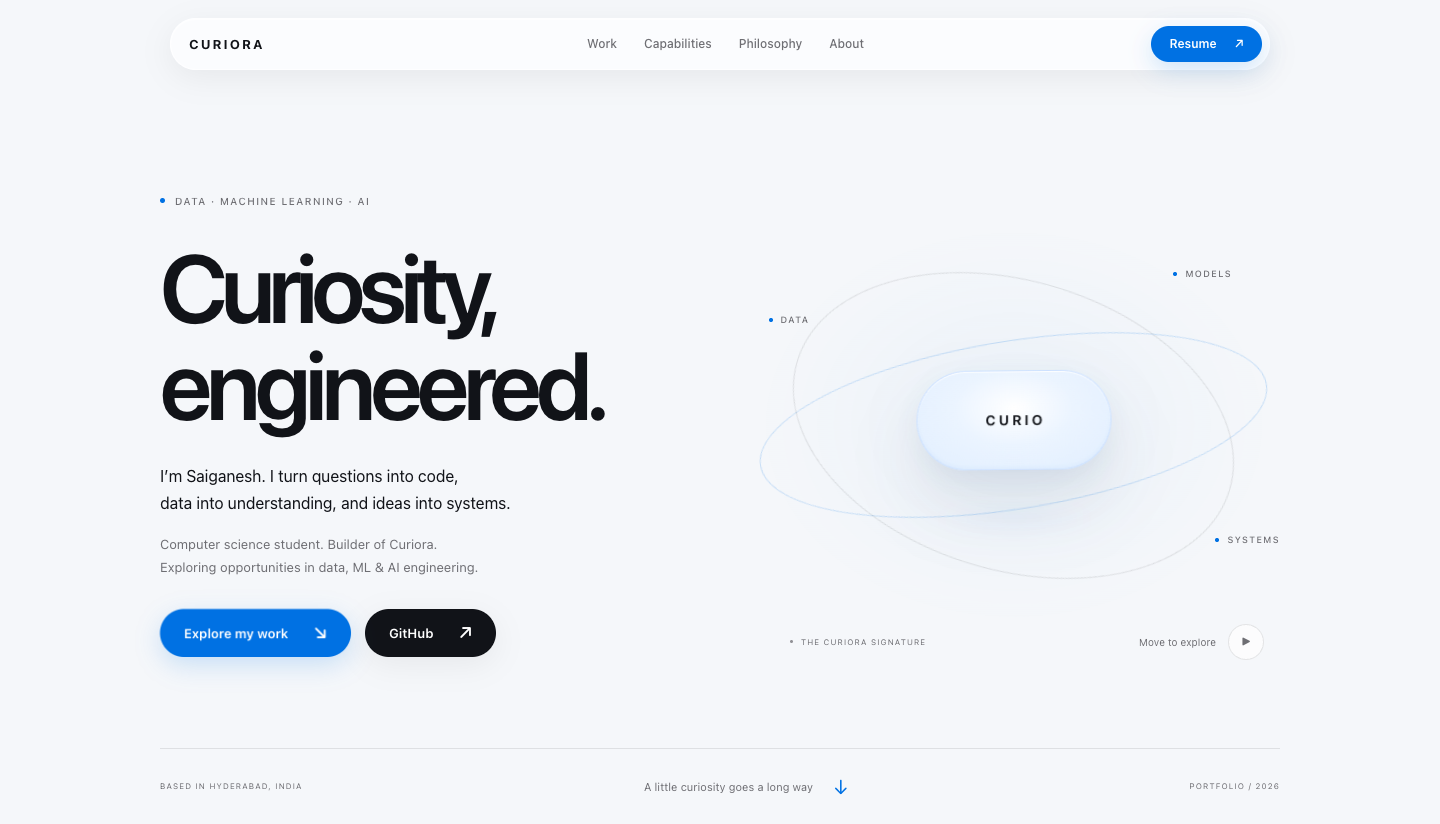
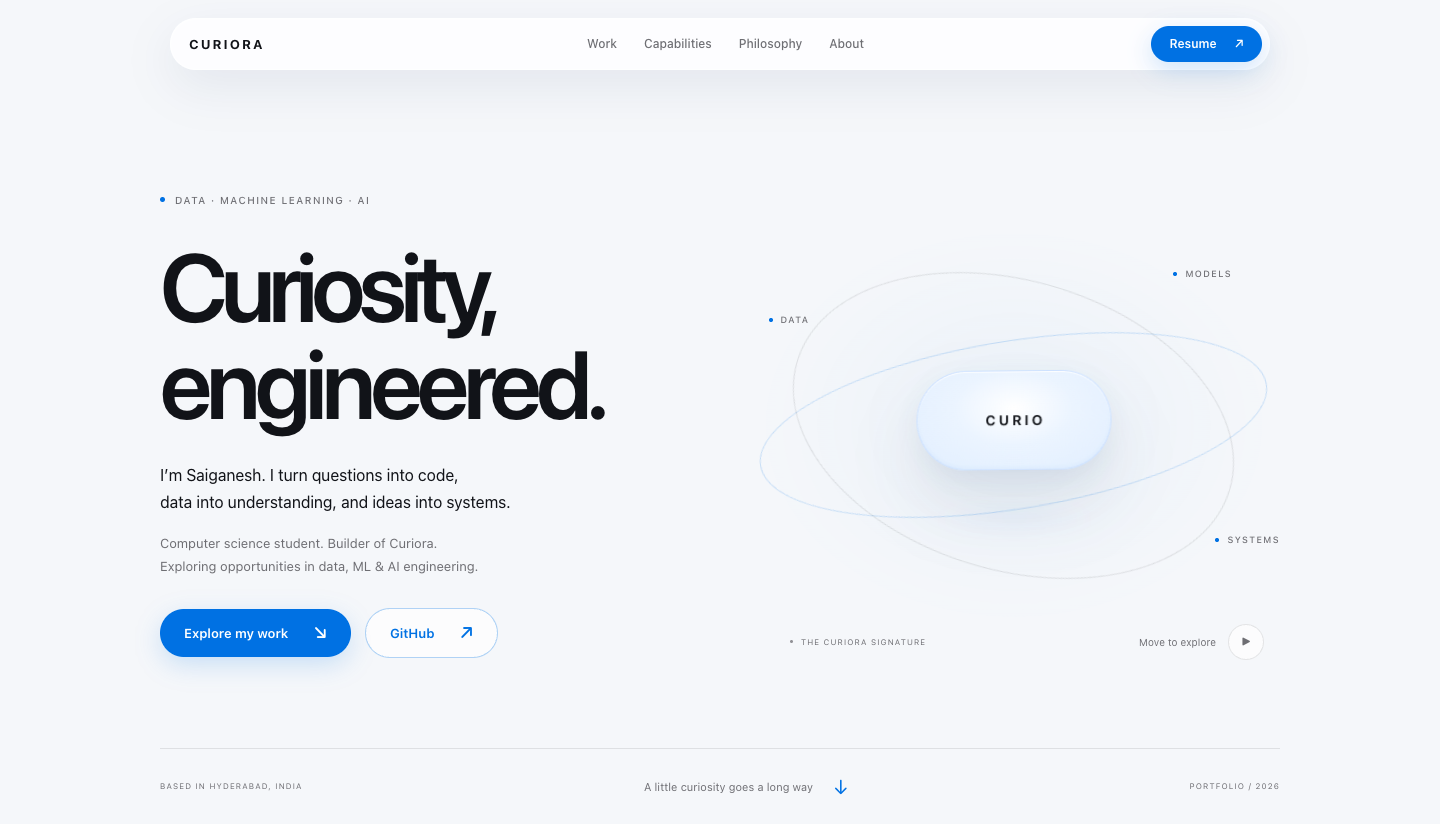
Restore Campus glass secondary buttons and current ecosystem links

diff --git a/README.md b/README.md
@@ -2,7 +2,7 @@
 
 A personal portfolio exploring Python backend systems, applied AI, data, and machine learning. Built with **FastAPI, Jinja2, and vanilla HTML/CSS/JavaScript**.
 
-[GitHub profile](https://github.com/saiganeshsattenapalli) · [Resume PDF](static/downloads/saiganesh-sattenapalli-resume.pdf) · [Project evidence](docs/resume-evidence.md)
+[Live portfolio](https://saiganesh-portfolio.onrender.com) · [GitHub profile](https://github.com/saiganeshsattenapalli) · [Resume PDF](static/downloads/saiganesh-sattenapalli-resume.pdf) · [Project evidence](docs/resume-evidence.md)
 
 ![Portfolio preview](docs/previews/current/hero-chrome.png)
 
@@ -33,7 +33,7 @@ The CSS loads in a deliberate order:
 | `static/css/animations.css` | Scroll reveals and the two signature orbit animations |
 | `static/css/portfolio.css` | Portfolio section layouts and token-based materials |
 
-The navbar follows Campus’s slim 52px height and 1100px maximum width. Action links use Azure primary buttons and glass secondary buttons.
+The navbar follows Campus’s slim 52px height and 1100px maximum width. Action links use Azure primary buttons and glass secondary buttons with Azure text and a fine blue border.
 
 The Curio signature is a simple glass capsule with a pointer-positioned highlight and bounded 3D tilt. An eight-second floating cycle, synchronized soft ground shadow, and slow ambient breathing give it a quiet sense of depth; the detailed card labels and inset frame have been removed. Campus supplies the 12s/16s orbit rhythm; the Curiora Design System supplies button/card lift; Research informs navigation feedback; the birthday project informs short reveal staggering and arrow feedback. These patterns are adapted into the portfolio, with no personal birthday content or media included. See the [source comparison](docs/curiora-consistency.md).
 
@@ -81,4 +81,13 @@ A native FastAPI [Render Blueprint](render.yaml) is included:
 
 Import the repository into your Render account and review the free web service configuration. The build command is `pip install -r requirements.txt`; the start command is `uvicorn main:app --host 0.0.0.0 --port $PORT`. No application secrets or database are required. Automatic redeployment is disabled in the blueprint so later commits can be reviewed before a manual deploy.
 
-This follows [Render's FastAPI deployment instructions](https://render.com/docs/deploy-fastapi). Free instances have [free-tier limitations](https://render.com/docs/free), including idle spin-down. The blueprint is deployment-ready configuration; it is not evidence that a live service exists. No live deployment URL has been verified yet.
+This follows [Render's FastAPI deployment instructions](https://render.com/docs/deploy-fastapi). Free instances have [free-tier limitations](https://render.com/docs/free), including idle spin-down. The portfolio is deployed at https://saiganesh-portfolio.onrender.com. The service uses the repository’s `main` branch; deploy new commits from Render’s Manual Deploy menu.
+
+## Curiora repositories
+
+- [Curiora Campus](https://github.com/Curiora-intelligence/Curiora-Campus) — Curio text and multimodal application prototype.
+- [Curiora Pay](https://github.com/Curiora-intelligence/Curiora-Pay) — banking-workflow and data/ML learning prototype.
+- [Curiora Research](https://github.com/Curiora-intelligence/Curiora-Research) — standalone local vision experiment.
+- [Curiora Design System](https://github.com/Curiora-intelligence/Curiora-Design-System) — shared CSS and interaction primitives.
+- [Curiora Website](https://github.com/Curiora-intelligence/Curiora-Website) — ecosystem landing-page application.
+- [Curiora Devops](https://github.com/saiganeshsattenapalli/Curiora-Devops) — early scaffold; no operational agent is implemented yet.
